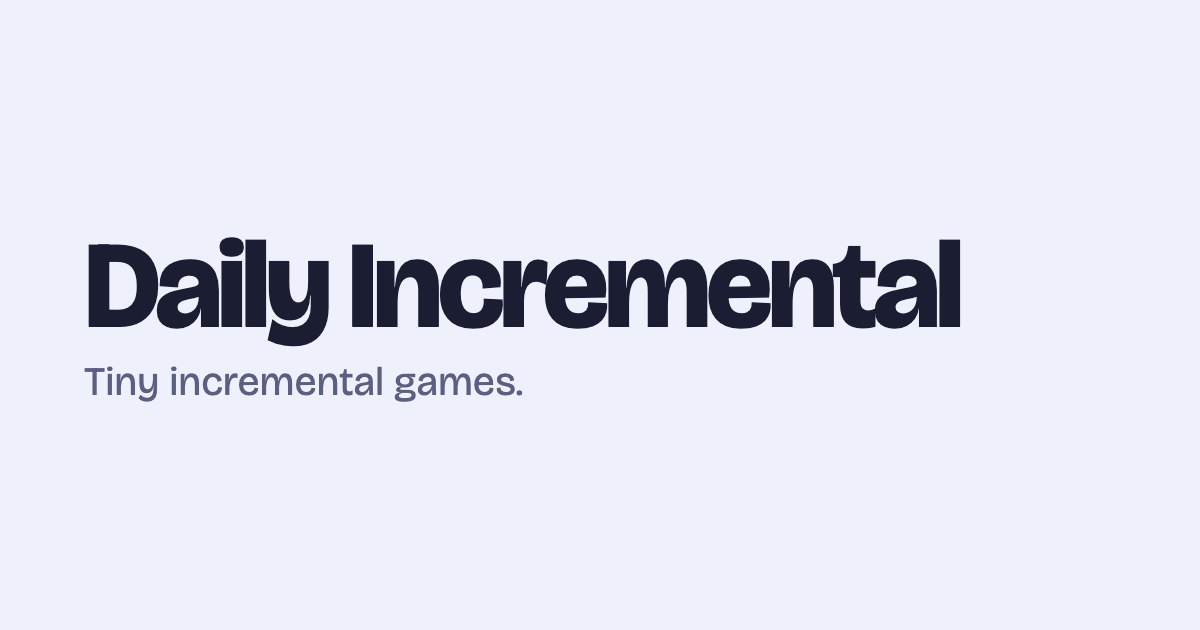
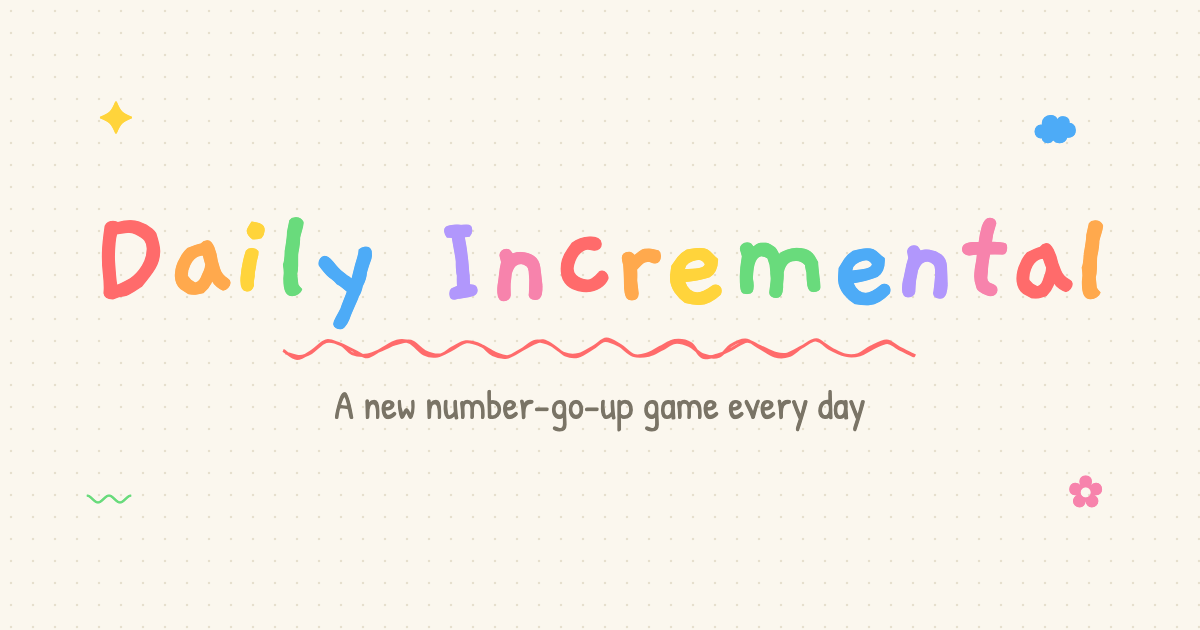
Hand-drawn gold stars and a sketchbook social card
Gold stars are drawn with Rough.js in flat yellow and ink, like the cards they sit on. The site's
social card is now the landing page header itself (wordmark, squiggle, doodles), and the tagline
is "A new number-go-up game every day".

diff --git a/public/index.html b/public/index.html
@@ -4,16 +4,16 @@
 <meta charset="utf-8">
 <meta name="viewport" content="width=device-width, initial-scale=1, viewport-fit=cover">
 <title>Daily Incremental</title>
-<meta name="description" content="Tiny incremental games.">
+<meta name="description" content="A new number-go-up game every day">
 <meta property="og:site_name" content="Daily Incremental">
 <meta property="og:type" content="website">
 <meta property="og:title" content="Daily Incremental">
-<meta property="og:description" content="Tiny incremental games.">
+<meta property="og:description" content="A new number-go-up game every day">
 <meta property="og:url" content="https://dailyincrementalgame.com/">
-<meta property="og:image" content="https://dailyincrementalgame.com/og.png?v=add6550e">
+<meta property="og:image" content="https://dailyincrementalgame.com/og.png?v=4cde8de1">
 <meta property="og:image:width" content="1200">
 <meta property="og:image:height" content="630">
-<meta property="og:image:alt" content="Daily Incremental: tiny incremental games.">
+<meta property="og:image:alt" content="Daily Incremental, in bouncy rainbow letters on dotted paper.">
 <meta name="twitter:card" content="summary_large_image">
 <meta name="theme-color" content="#fbf7ee" media="(prefers-color-scheme: light)">
 <meta name="theme-color" content="#23252b" media="(prefers-color-scheme: dark)">
@@ -116,7 +116,7 @@ a.card:active { transform: rotate(0deg) scale(.98); }
 /* Finished games get a gold star, the kind a teacher sticks on a good worksheet. */
 .star {
   position: absolute; z-index: 3; right: -16px; top: -18px; width: 62px; height: 62px;
-  transform: rotate(var(--sr, 12deg)); filter: drop-shadow(1px 2px 0 rgba(0, 0, 0, .25));
+  transform: rotate(var(--sr, 12deg)); filter: drop-shadow(2px 2px 0 rgba(43, 42, 51, .3));
   transition: transform .3s cubic-bezier(.3, 1.7, .5, 1);
 }
 .star svg { display: block; width: 100%; height: 100%; overflow: visible; }
@@ -156,7 +156,7 @@ footer a { color: inherit; }
   <header class="brand">
     <h1 id="wordmark" aria-label="Daily Incremental">Daily Incremental</h1>
     <svg class="squiggle" id="squiggle" aria-hidden="true"></svg>
-    <p>Every day, Claude builds a new tiny incremental game.</p>
+    <p>A new number-go-up game every day</p>
     <p class="stats" aria-label="Your stats">
       <span>finished: <b id="finished">0</b></span>
       <span>streak: <b id="streak">0</b> <span aria-hidden="true" style="all:unset">🔥</span></span>
@@ -244,25 +244,30 @@ function countdown(iso) {
   return `coming ${fmtDate(iso)}`;
 }
 
-// A five-point gold foil star, slightly lopsided like it was punched out by hand.
+// A gold star sticker, drawn in the same wobbly marker as the cards. Lopsided like it was cut out by hand.
 function goldStar(seed) {
   const pts = [];
   for (let i = 0; i < 10; i++) {
     const a = -Math.PI / 2 + i * Math.PI / 5;
     const r = (i % 2 ? 13 : 29) * (1 + (noise(seed, 10 + i) - .5) * .12);
-    pts.push(`${(32 + Math.cos(a) * r).toFixed(1)},${(33 + Math.sin(a) * r).toFixed(1)}`);
+    pts.push([32 + Math.cos(a) * r, 33 + Math.sin(a) * r]);
   }
-  const id = `g${seed}`;
   const wrap = el('span', 'star');
   wrap.setAttribute('role', 'img'); wrap.setAttribute('aria-label', 'finished');
   wrap.style.setProperty('--sr', `${(noise(seed, 9) - .5) * 40}deg`);
-  wrap.innerHTML = `<svg viewBox="0 0 64 64" aria-hidden="true">
-    <defs><linearGradient id="${id}" x1="0" y1="0" x2="1" y2="1">
-      <stop offset="0" stop-color="#fff3b0"/><stop offset=".35" stop-color="#ffd43b"/>
-      <stop offset=".7" stop-color="#f59f00"/><stop offset="1" stop-color="#ffe066"/></linearGradient></defs>
-    <polygon points="${pts.join(' ')}" fill="url(#${id})" stroke="#b07a00" stroke-width="2.2" stroke-linejoin="round"/>
-    <path d="M24 22 L29 15" stroke="#fffbe6" stroke-width="3" stroke-linecap="round" opacity=".85"/>
-  </svg><span class="twinkle" aria-hidden="true">✦</span><span class="twinkle" aria-hidden="true">✦</span>`;
+  const svg = document.createElementNS('http://www.w3.org/2000/svg', 'svg');
+  svg.setAttribute('viewBox', '0 0 64 64'); svg.setAttribute('aria-hidden', 'true');
+  const rc = rough.svg(svg);
+  svg.append(
+    rc.polygon(pts, {
+      fill: css.getPropertyValue('--c3').trim(), fillStyle: 'solid',
+      stroke: ink(), strokeWidth: 2.2, roughness: 1.1, bowing: 1.5, seed: seed + 20,
+    }),
+    // A crayon highlight on the upper left, like the shine on the stickers.
+    rc.line(22, 25, 27, 17, { stroke: '#fff8d6', strokeWidth: 2.6, roughness: .8, seed: seed + 21 }),
+  );
+  wrap.append(svg);
+  for (let i = 0; i < 2; i++) { const t = el('span', 'twinkle', '✦'); t.setAttribute('aria-hidden', 'true'); wrap.append(t); }
   return wrap;
 }
 
